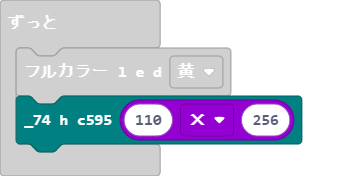
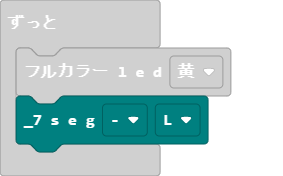
7セグメントＬＥＤブロック作成

diff --git a/custom.ts b/custom.ts
@@ -21,7 +21,50 @@ enum color_type {
     //% block="白"
     white
     }
+enum LED_view {
+    //% block="消灯"
+    black,
+    //% block="H"
+    Hi,
+    //% block="L"
+    Low,
+    //% block="-"
+    minus,
+    //% block="0"
+    zero,
+    //% block="1"
+    one,
+    //% block="2"
+    two,
+    //% block="3"
+    three,
+    //% block="4"
+    four,
+    //% block="5"
+    five,
+    //% block="6"
+    six,
+    //% block="7"
+    seven,
+    //% block="8"
+    eight,
+    //% block="9"
+    nine,
+    //% block="A"
+    a,
+    //% block="b"
+    b,
+    //% block="c"
+    c,
+    //% block="d"
+    d,
+    //% block="E"
+    e,
+    //% block="F"
+    f
 
+}
+let led_value:number
 /**
  * Custom blocks
  */
@@ -100,4 +143,133 @@ namespace custom {
         pins.digitalWritePin(DigitalPin.P16, 1)
 
     }
+    //% block
+    export function _7SEG(led_l: LED_view, led_r: LED_view): void {
+        switch(led_l){
+            case LED_view.black:
+                led_value = 0
+            break;
+            case LED_view.Hi:
+                led_value = 110
+            break;
+            case LED_view.Low:
+                led_value = 28
+            break;
+            case LED_view.minus:
+                led_value = 2
+            break;
+            case LED_view.zero:
+                led_value = 252
+            break;
+            case LED_view.one:
+                led_value = 96
+            break; 
+            case LED_view.two:
+                led_value = 218
+            break; 
+            case LED_view.three:
+                led_value = 242
+            break; 
+            case LED_view.four:
+                led_value = 102
+            break; 
+            case LED_view.five:
+                led_value = 182
+            break; 
+            case LED_view.six:
+                led_value = 190
+            break; 
+            case LED_view.seven:
+                led_value = 228
+            break; 
+            case LED_view.eight:
+                led_value = 254
+            break; 
+            case LED_view.nine:
+                led_value = 246
+            break; 
+            case LED_view.a:
+                led_value = 238
+            break; 
+            case LED_view.b:
+                led_value = 62
+            break; 
+            case LED_view.c:
+                led_value = 26
+            break; 
+            case LED_view.d:
+                led_value = 122
+            break; 
+            case LED_view.e:
+                led_value = 158
+            break; 
+            case LED_view.f:
+                led_value = 142
+            break;
+        }
+        switch (led_r) {
+            case LED_view.black:
+                led_value += 0 * 256
+                break;
+            case LED_view.Hi:
+                led_value += 110*256
+                break;
+            case LED_view.Low:
+                led_value += 28 * 256
+                break;
+            case LED_view.minus:
+                led_value += 2
+                break;
+             case LED_view.zero:
+                led_value += 252 * 256
+                break;
+            case LED_view.one:
+                led_value += 96 * 256
+                break;
+            case LED_view.two:
+                led_value += 218 * 256
+                break;
+            case LED_view.three:
+                led_value += 242 * 256
+                break;
+            case LED_view.four:
+                led_value += 102*256
+                break;
+            case LED_view.five:
+                led_value += 182 * 256
+                break;
+            case LED_view.six:
+                led_value += 190 * 256
+                break;
+            case LED_view.seven:
+                led_value += 228 * 256
+                break;
+            case LED_view.eight:
+                led_value += 254 * 256
+                break;
+            case LED_view.nine:
+                led_value += 246 * 256
+                break;
+            case LED_view.a:
+                led_value += 238 * 256
+                break;
+            case LED_view.b:
+                led_value += 62 * 256
+                break;
+            case LED_view.c:
+                led_value += 26 * 256
+                break;
+            case LED_view.d:
+                led_value += 122 * 256
+                break;
+            case LED_view.e:
+                led_value += 158 * 256
+                break;
+            case LED_view.f:
+                led_value += 142 * 256
+                break;
+        }
+        _74HC595(led_value)
+    }
+
 }

diff --git a/main.ts b/main.ts
@@ -33,5 +33,5 @@ let i = 0
 custom.initialize()
 basic.forever(function () {
     custom.フルカラーLED(color_type.yellow)
-    custom._74HC595(110 * 256)
+    custom._7SEG(LED_view.minus, LED_view.Low)
 })
